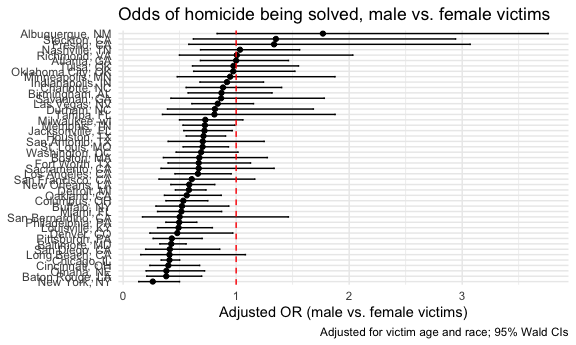
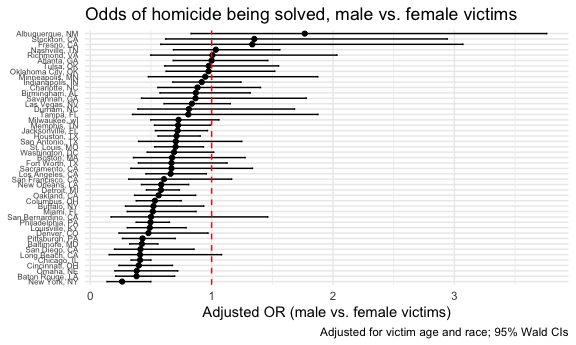
Problem 2

diff --git a/p8105_hw6_ecf2166.md b/p8105_hw6_ecf2166.md
@@ -1,9 +1,6 @@
 Homework 6
 ================
 
-This homework includes figures; the readability of your embedded plots
-(e.g. font sizes, axis labels, titles) will be assessed in Problems 1+.
-
 # Problem 1
 
 ``` r
@@ -20,13 +17,6 @@ homicide_data = read_csv("data/homicide-data.csv") |>
   ) |> 
   mutate(victim_race = fct_infreq(victim_race))
 ```
-
-For the city of Baltimore, MD, use the glm function to fit a logistic
-regression with resolved vs unresolved as the outcome and victim age,
-sex and race as predictors. Save the output of glm as an R object; apply
-the broom::tidy to this object; and obtain the estimate and confidence
-interval of the adjusted odds ratio for solving homicides comparing male
-victims to female victims keeping all other variables fixed.
 
 ``` r
 baltimore_df = 
@@ -54,12 +44,6 @@ fit_balt_log |>
 |:---------------|-------:|------:|---------:|---------:|--------:|
 | victim_sexMale | -0.854 | 0.426 |    0.325 |    0.558 |       0 |
 
-Now run glm for each of the cities in your dataset, and extract the
-adjusted odds ratio (and CI) for solving homicides comparing male
-victims to female victims. Do this within a “tidy” pipeline, making use
-of purrr::map, list columns, and unnest as necessary to create a
-dataframe with estimated ORs and CIs for each city.
-
 ``` r
 city_or_df = 
   homicide_data |> 
@@ -81,9 +65,6 @@ city_or_df =
   select(city_state, OR, CI_lower, CI_upper)
 ```
 
-Create a plot that shows the estimated ORs and CIs for each city.
-Organize cities according to estimated OR, and comment on the plot.
-
 ``` r
 city_or_df |> 
   mutate(city_state = fct_reorder(city_state, OR)) |> 
@@ -98,40 +79,132 @@ city_or_df |>
     title = "Odds of homicide being solved, male vs. female victims",
     caption = "Adjusted for victim age and race; 95% Wald CIs"
   ) +
-  theme_minimal()
+  theme(axis.text.y = element_text(size = 6))
 ```
 
 <img src="p8105_hw6_ecf2166_files/figure-gfm/unnamed-chunk-4-1.png" alt="" width="90%" />
 
+Albequerque, NM; Stockton, CA; Fresno, CA; and Nashville, TN are the
+only cities with ORs well above 1 for male vs female victims; however,
+all of their CIs include the null value of 1. Otherwise, all other
+cities have adjusted ORs at or below the null value of 1, indicating
+that the odds of a homicide being solved for male victims is lower than
+or equal to the odds of a homicide being solved for female victims.
+
 # Problem 2
 
-For this problem, we’ll use the Central Park weather data we’ve seen
-elsewhere. The code chunk below will import these data from the
-p8105.datasets package.
+## Setup
 
 ``` r
-library(p8105.datasets)
 data("weather_df")
+
+weather_df = weather_df |> 
+  filter(name == "CentralPark_NY") |> 
+  drop_na(tmax, tmin, prcp)
+
+weather_bootstrap_df = 
+  weather_df |> 
+  modelr::bootstrap(n = 5000) |> 
+  mutate(
+    model_fits = map(strap, \(df) lm(tmax ~ tmin + prcp, data = df)),
+    glance_results = map(model_fits, broom::glance),
+    tidy_results = map(model_fits, broom::tidy)
+  )
 ```
 
-The boostrap is helpful when you’d like to perform inference for a
-parameter / value / summary that doesn’t have an easy-to-write-down
-distribution in the usual repeated sampling framework. We’ll focus on a
-simple linear regression with tmax as the response with tmin and prcp as
-the predictors, and are interested in the distribution of two quantities
-estimated from these data:
+## $r^2$
 
-𝑟̂2 𝛽̂1𝛽̂2 Use 5000 bootstrap samples and, for each bootstrap sample,
-produce estimates of these two quantities. Plot the distribution of your
-estimates, and describe these in words. Using the 5000 bootstrap
-estimates, identify the 2.5% and 97.5% quantiles to provide a 95%
-confidence interval for 𝑟̂2 and 𝛽̂1𝛽̂2.
+``` r
+r2_df = 
+  weather_bootstrap_df |> 
+  select(.id, glance_results) |> 
+  unnest(glance_results) |> 
+  select(.id, r.squared)
 
-Note: broom::glance() is helpful for extracting 𝑟̂2 from a fitted
-regression, and broom::tidy() (with some additional wrangling) should
-help in computing 𝛽̂1𝛽̂2.
+r2_df |> 
+  ggplot(aes(x = r.squared)) + 
+  geom_density()
+```
 
-Problem 3
+<img src="p8105_hw6_ecf2166_files/figure-gfm/unnamed-chunk-6-1.png" alt="" width="90%" />
+
+``` r
+r2_ci = r2_df |> 
+  summarize(
+    r2_estimate = mean(r.squared),
+    ci_lb = quantile(r.squared, 0.025),
+    ci_ub = quantile(r.squared, 0.975)
+  )
+
+r2_ci
+```
+
+    ## # A tibble: 1 × 3
+    ##   r2_estimate ci_lb ci_ub
+    ##         <dbl> <dbl> <dbl>
+    ## 1       0.913 0.894 0.928
+
+The distribution of $r^2$ is slightly left skewed with a peak around
+0.915, indicating the linear model fits the data well with a high
+correlation.
+
+The confidence interval of $r^2$ is (0.894, 0.928).
+
+## $\frac{\hat{\beta}_1}{\hat{\beta}_2}$
+
+``` r
+beta_ratio_df = 
+  weather_bootstrap_df |> 
+  select(.id, tidy_results) |> 
+  unnest(tidy_results) |> 
+  select(.id, term, estimate) |> 
+  pivot_wider(names_from = term, values_from = estimate) |> 
+  mutate(beta_ratio = tmin / prcp)
+
+beta_ratio_df |> 
+  ggplot(aes(x = beta_ratio)) + 
+  geom_density()
+```
+
+<img src="p8105_hw6_ecf2166_files/figure-gfm/unnamed-chunk-7-1.png" alt="" width="90%" />
+
+``` r
+beta_ratio_ci = beta_ratio_df |> 
+  summarize(
+    ratio_estimate = mean(beta_ratio),
+    ci_lb = quantile(beta_ratio, 0.025),
+    ci_ub = quantile(beta_ratio, 0.975)
+  )
+
+beta_ratio_ci
+```
+
+    ## # A tibble: 1 × 3
+    ##   ratio_estimate  ci_lb ci_ub
+    ##            <dbl>  <dbl> <dbl>
+    ## 1         -1459. -5616. 4587.
+
+The distribution of $\frac{\hat{\beta}_1}{\hat{\beta}_2}$ appears
+approximately normal, maybe a bit right skewed, but the distribution is
+so narrow due to the tails, I will make another plot restricting the
+x-axis to view the peak a bit better.
+
+``` r
+beta_ratio_df |> 
+  ggplot(aes(x = beta_ratio)) + 
+  geom_density() +
+  coord_cartesian(xlim = c(-50000, 50000))
+```
+
+<img src="p8105_hw6_ecf2166_files/figure-gfm/unnamed-chunk-8-1.png" alt="" width="90%" />
+
+As we can see here, the distribution of
+$\frac{\hat{\beta}_1}{\hat{\beta}_2}$ peaks just under 0.
+
+The confidence interval of $\frac{\hat{\beta}_1}{\hat{\beta}_2}$ is
+(-5616.445, 4586.923).
+
+# Problem 3
 
 In this problem, you will analyze data gathered to understand the
 effects of several variables on a child’s birthweight. This dataset,
